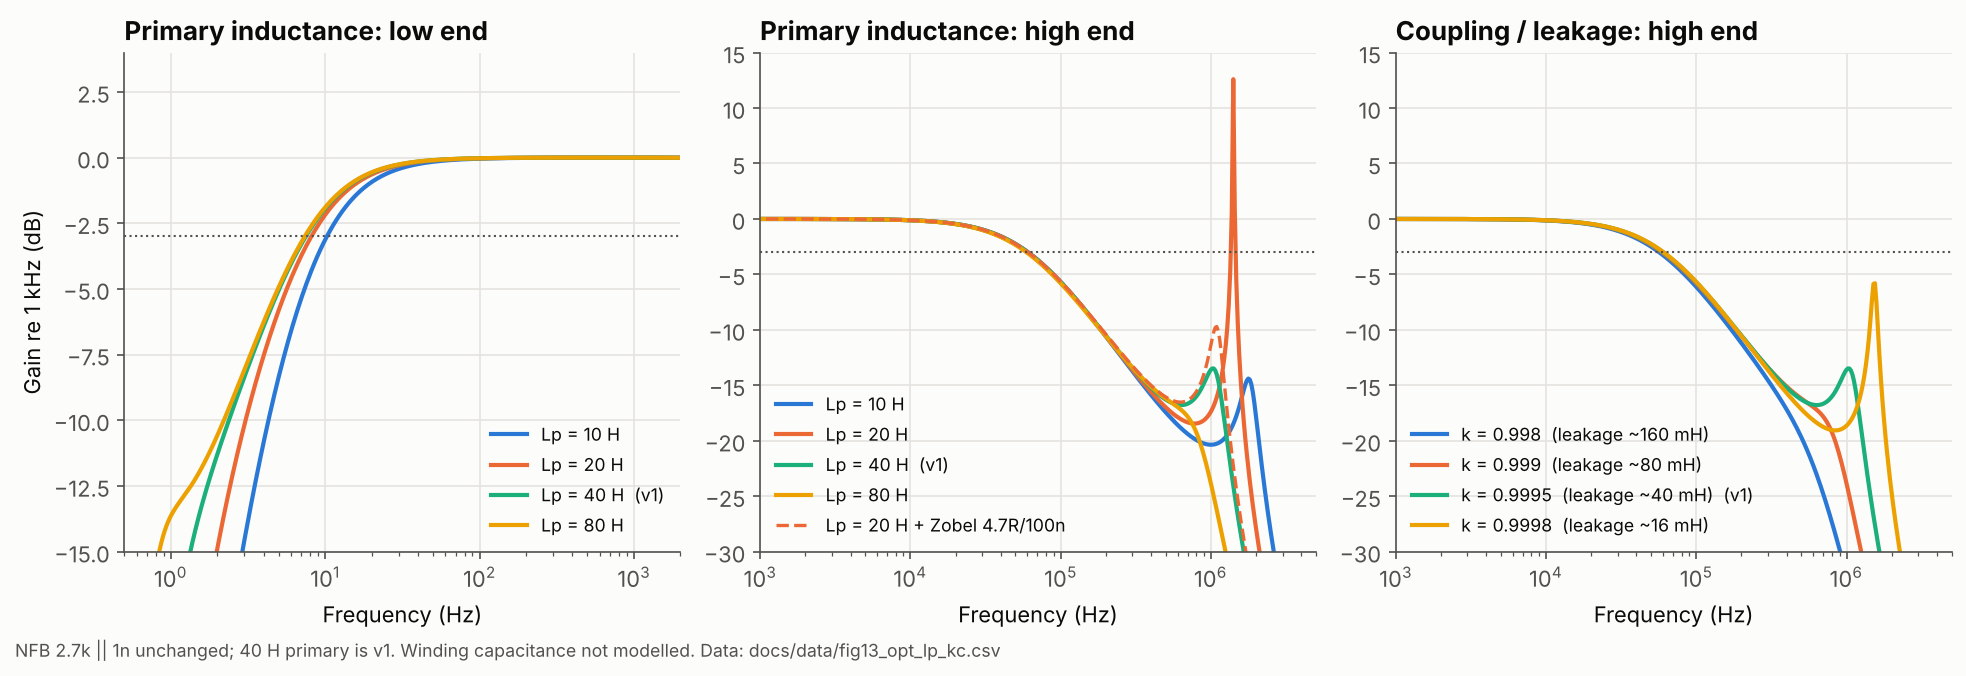
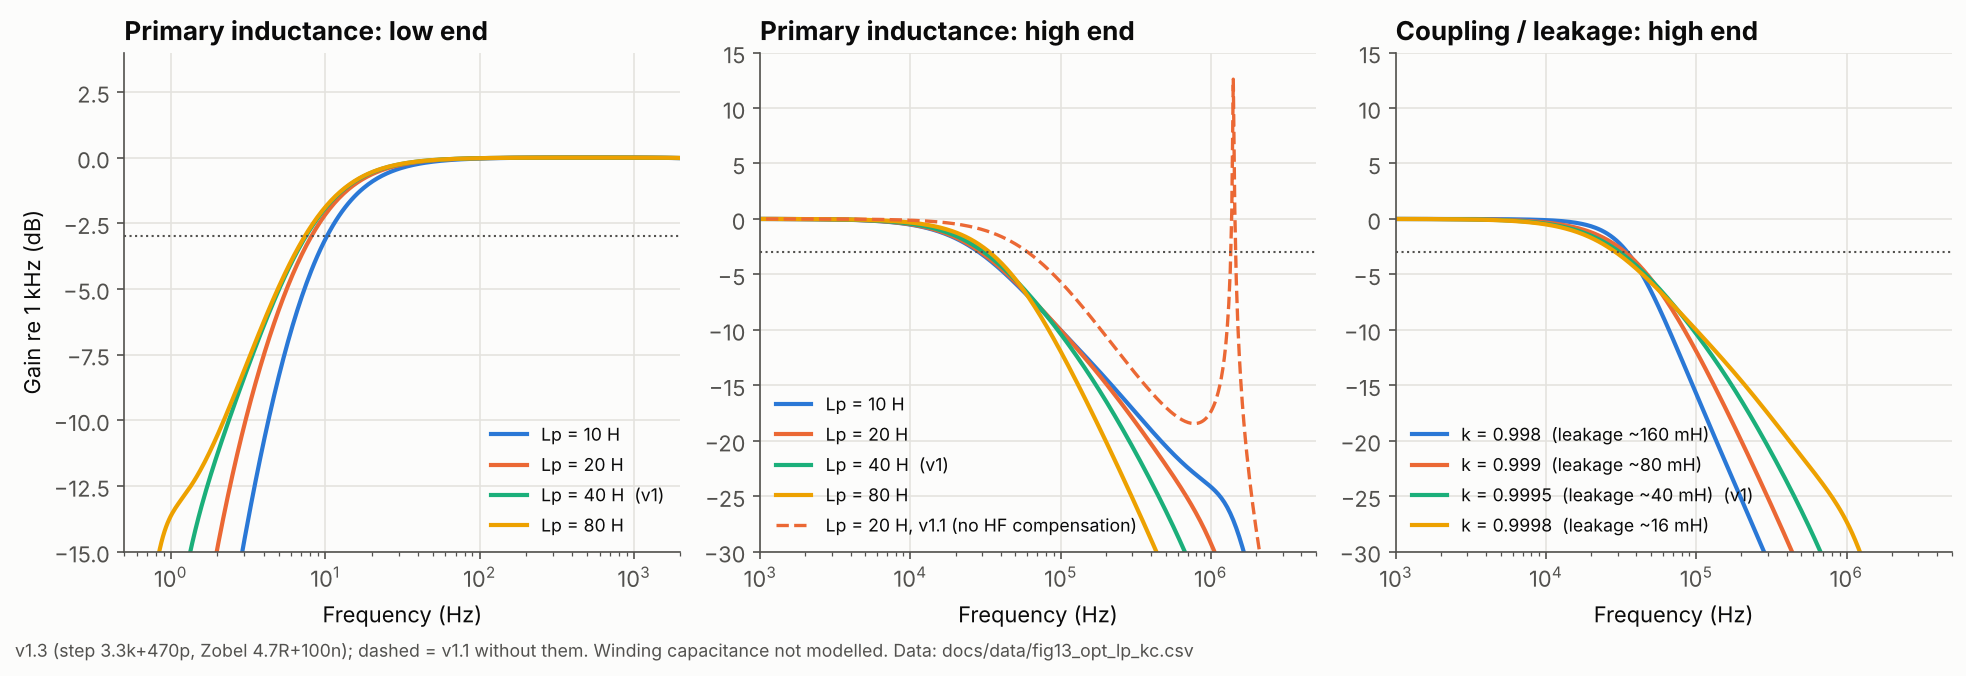
feat(sim): v1.3 HF compensation (step 3.3k+470p, Zobel 4.7R+100n), regenerate all figures

diff --git a/tools/make_figures.py b/tools/make_figures.py
@@ -229,20 +229,21 @@ def fig3():
 
 
 def fig4():
-    sets = [("Open loop (no NFB)", dict(RFB="1e9"), C1),
-            ("NFB 2.7k, no lead cap", dict(RFB="2.7k", CFB="1p"), C2),
-            ("NFB 2.7k || 1nF  (v1 design)", dict(RFB="2.7k", CFB="1n"), C3)]
+    sets = [("Open loop (v1.3 forward path)", dict(RFB="1e9"), C1, "-"),
+            ("NFB 2.7k, no lead cap", dict(RFB="2.7k", CFB="1p", RZOB="1e9", RSTEP="1e9"), C2, "-"),
+            ("v1.1: NFB 2.7k || 1nF", dict(RZOB="1e9", RSTEP="1e9"), C4, "--"),
+            ("v1.3: + step 3.3k/470p + Zobel 4.7R/100n", dict(), C3, "-")]
     fig, ax = plt.subplots(figsize=(7.2, 4.6))
-    for lab, ov, col in sets:
-        d = ng_wrdata(channel(**ov) + "VIN in 0 AC 1\n", "ac dec 40 1 1e6", ["vdb(out)"])
-        ax.semilogx(d[:, 0], d[:, 1], color=col, label=lab)
+    for lab, ov, col, ls in sets:
+        d = ng_wrdata(channel(**ov) + "VIN in 0 AC 1\n", "ac dec 100 1 5e6", ["vdb(out)"])
+        ax.semilogx(d[:, 0], d[:, 1], color=col, ls=ls, label=lab)
     ax.axvspan(20, 20e3, color=GRID, alpha=0.45, lw=0)
     ax.text(640, 53, "audio band 20 Hz-20 kHz", color=INK2, fontsize=9, ha="center", va="top")
     ax.set(title="Frequency response, input -> 4 ohm load", xlabel="Frequency (Hz)",
-           ylabel="Voltage gain (dB)", xlim=(1, 1e6), ylim=(5, 55))
+           ylabel="Voltage gain (dB)", xlim=(1, 5e6), ylim=(-10, 55))
     ax.legend(loc="upper center", bbox_to_anchor=(0.5, -0.14), ncol=2)
     save(fig, "fig4_freq_response.png",
-         "OPT model: 40 H primary, k = 0.9995, 43 % UL. Lead cap removes the +4.7 dB peak near 130 kHz.")
+         "OPT model: 40 H primary, k = 0.9995, 43 % UL, 6 k. HF compensation choice: README section 4.3.")
 
 
 def fig5():
@@ -519,7 +520,7 @@ def read_csv(name):
         return list(csv.DictReader(fh))
 
 
-ZOBEL = "RZ out nz 4.7\nCZ nz 0 100n\n"      # candidate fix, see README section 4.3
+NO_COMP = dict(RZOB="1e9", RSTEP="1e9")     # removes the v1.3 HF compensation, for comparison
 
 
 def ac_curve(extra="", **over):
@@ -623,7 +624,7 @@ def plot_fig12():
     axs[2].set(title="Damping factor at 1 kHz", xlabel="OPT primary (k ohm, p-p)", ylabel="4 ohm / Zout", ylim=(0, None))
     _bottom_legend(fig, hs, labs, 4)
     save(fig, "fig12_opt_raa_ul.png",
-         "B+ 400 V ideal, bias -42 V, NFB 2.7k || 1n unchanged. Data: docs/data/fig12_opt_raa_ul.csv")
+         "v1.3 circuit, B+ 400 V ideal, bias -42 V. Data: docs/data/fig12_opt_raa_ul.csv")
 
 
 def fig13():
@@ -637,16 +638,16 @@ def fig13():
         axs[0].semilogx(f, db, color=col, label=lab)
         axs[1].semilogx(f, db, color=col, label=lab)
         m = ac_metrics(LH=lh)
-        rows.append(("Lp_H", 4 * lh, "none", m["flo"], m["fhi"], m["pk_hi"], m["f_pk"]))
-    f, db = ac_curve(ZOBEL, LH=5)
-    axs[1].semilogx(f, db, color=C2, ls="--", lw=1.6, label="Lp = 20 H + Zobel 4.7R/100n")
-    m = ac_metrics(ZOBEL, LH=5)
-    rows.append(("Lp_H", 20, "zobel", m["flo"], m["fhi"], m["pk_hi"], m["f_pk"]))
+        rows.append(("Lp_H", 4 * lh, "v1.3", m["flo"], m["fhi"], m["pk_hi"], m["f_pk"]))
+    f, db = ac_curve(LH=5, **NO_COMP)
+    axs[1].semilogx(f, db, color=C2, ls="--", lw=1.6, label="Lp = 20 H, v1.1 (no HF compensation)")
+    m = ac_metrics(LH=5, **NO_COMP)
+    rows.append(("Lp_H", 20, "v1.1_no_comp", m["flo"], m["fhi"], m["pk_hi"], m["f_pk"]))
     for kc, col in zip([0.998, 0.999, 0.9995, 0.9998], [C1, C2, C3, C4]):
         f, db = ac_curve(KC=kc)
         axs[2].semilogx(f, db, color=col, label=f"k = {kc}  (leakage ~{40*(1-kc**2)*1e3:.0f} mH)" + ("  (v1)" if kc == 0.9995 else ""))
         m = ac_metrics(KC=kc)
-        rows.append(("k", kc, "none", m["flo"], m["fhi"], m["pk_hi"], m["f_pk"]))
+        rows.append(("k", kc, "v1.3", m["flo"], m["fhi"], m["pk_hi"], m["f_pk"]))
     axs[0].set(title="Primary inductance: low end", xlabel="Frequency (Hz)", ylabel="Gain re 1 kHz (dB)", xlim=(0.5, 2e3), ylim=(-15, 4))
     axs[1].set(title="Primary inductance: high end", xlabel="Frequency (Hz)", xlim=(1e3, 5e6), ylim=(-30, 15))
     axs[2].set(title="Coupling / leakage: high end", xlabel="Frequency (Hz)", xlim=(1e3, 5e6), ylim=(-30, 15))
@@ -657,7 +658,7 @@ def fig13():
     fig.tight_layout()
     write_csv("fig13_opt_lp_kc.csv", ["param", "value", "fix", "f_minus3dB_low_Hz", "f_minus3dB_high_Hz", "hf_peak_dB", "hf_peak_Hz"], rows)
     save(fig, "fig13_opt_lp_kc.png",
-         "NFB 2.7k || 1n unchanged; 40 H primary is v1. Winding capacitance not modelled. Data: docs/data/fig13_opt_lp_kc.csv")
+         "v1.3 (step 3.3k+470p, Zobel 4.7R+100n); dashed = v1.1 without them. Winding capacitance not modelled. Data: docs/data/fig13_opt_lp_kc.csv")
 
 ALL = dict(fig1=fig1, fig2=fig2, fig3=fig3, fig4=fig4, fig5=fig5, fig6=fig6, fig7=fig7,
            fig8=fig8, fig9=fig9, fig10=fig10, fig11=fig11, fig12=fig12, fig13=fig13, plot11=plot_fig11, plot12=plot_fig12, stereo=lambda: print("  wrote", os.path.relpath(STEREO, ROOT)) if build_stereo() else None)
